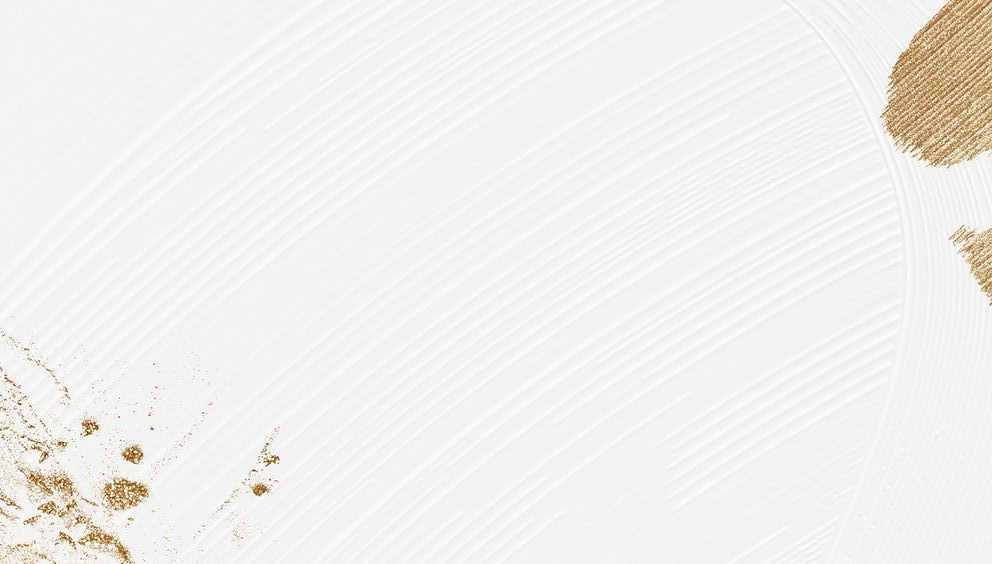
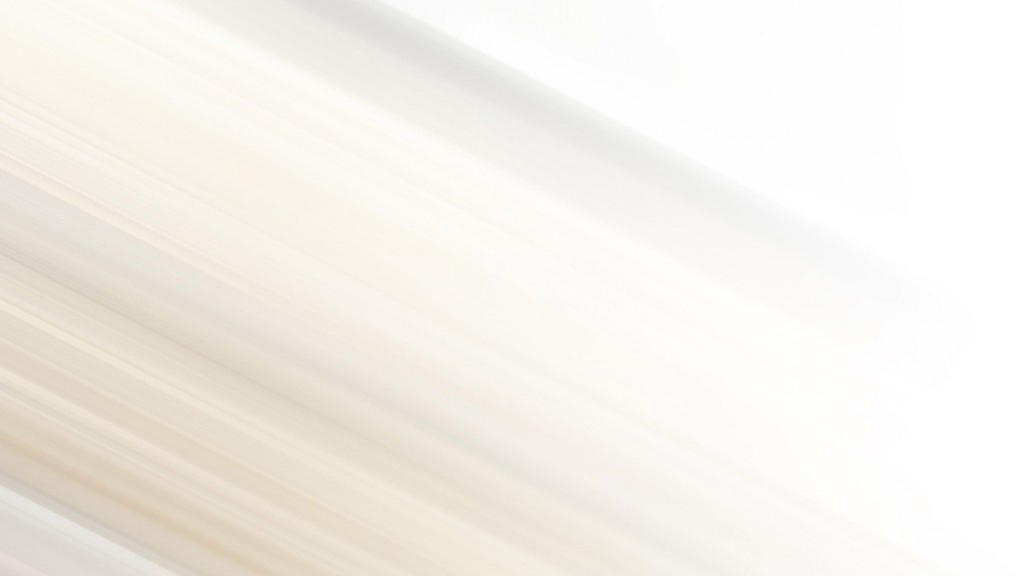
removing some content, adding add/delete to cards

diff --git a/src/components/Cards/Card.jsx b/src/components/Cards/Card.jsx
@@ -1,6 +1,11 @@
 import React from "react";
 import "./card.css";
 import Images from "../../common/Images/Images";
+import { useAuthContext } from "../../context/AuthContext";
+import { Link, useLocation, useParams } from "react-router-dom";
+import { AiOutlineFileAdd } from "react-icons/ai";
+
+
 
 // Table
 import table1 from "../../assets/Cards/table/1.jpg";
@@ -28,6 +33,10 @@ import card3 from "../../assets/Cards/cards/3.jpg";
 import footerCard from "../../assets/Cards/cards/footer.jpg";
 
 const Card = () => {
+  const { user } = useAuthContext();
+  const { pathname } = useLocation();
+
+
   const tabloImgs = [
     {
       img: footerTablo,
@@ -96,6 +105,17 @@ const Card = () => {
 
   return (
     <section className="container">
+            {user.email && (
+        <div className="hidden_content">
+          <Link to={`${pathname}/add`}>
+            <button className="hidden__btn">
+              <AiOutlineFileAdd />
+            </button>
+          </Link>
+        </div>
+      )}
+
+
       <div className="card__header">
         <div className="line"></div>
         <div className="text">
@@ -165,6 +185,16 @@ const Card = () => {
           <div className="gallery__text">
             <p>Покани за гости</p>
           </div>
+          {user.email && (
+                  <div className="gallery__btns">
+                    <Link>
+                      <button>Edit</button>
+                    </Link>
+                    <button>
+                      Delete
+                    </button>
+                  </div>
+                )}
         </div>
 
         <div className="card__footer__container gallery">
@@ -172,6 +202,16 @@ const Card = () => {
           <div className="gallery__text">
             <p>Картички с имена</p>
           </div>
+          {user.email && (
+                  <div className="gallery__btns">
+                    <Link>
+                      <button>Edit</button>
+                    </Link>
+                    <button>
+                      Delete
+                    </button>
+                  </div>
+                )}
         </div>
 
         <div className="card__footer__container gallery">
@@ -179,6 +219,16 @@ const Card = () => {
           <div className="gallery__text">
             <p>Настанителни табели</p>
           </div>
+          {user.email && (
+                  <div className="gallery__btns">
+                    <Link>
+                      <button>Edit</button>
+                    </Link>
+                    <button>
+                      Delete
+                    </button>
+                  </div>
+                )}
         </div>
         {/* 
         <div className="card__footer__container">

diff --git a/src/index.css b/src/index.css
@@ -84,7 +84,7 @@ h5 {
 /* Set default font and background color */
 body {
   min-height: 100vh;
-  background: url('./assets/background2.jpg');
+  background: url('./assets/background.jpg');
   /* background-color: #f3f3f3; */
   background-repeat: no-repeat;
   background-size: cover;

diff --git a/src/components/Navigation/Navigation.jsx b/src/components/Navigation/Navigation.jsx
@@ -1,5 +1,5 @@
 import React from "react";
-import logo from "../../assets/logo4.png";
+import logo from "../../assets/logo.png";
 import "./navigation.css";
 import { RxDropdownMenu } from "react-icons/rx";
 import { GrUserFemale } from "react-icons/gr";

diff --git a/src/components/Decoration/Decoration.jsx b/src/components/Decoration/Decoration.jsx
@@ -1,6 +1,6 @@
 import React from 'react'
 import './decoration.css'
-import img from '../../assets/logo6.png'
+import img from '../../assets/DecorationLogo.png'
 import {Link} from 'react-router-dom'
 
 const Decoration = () => {
